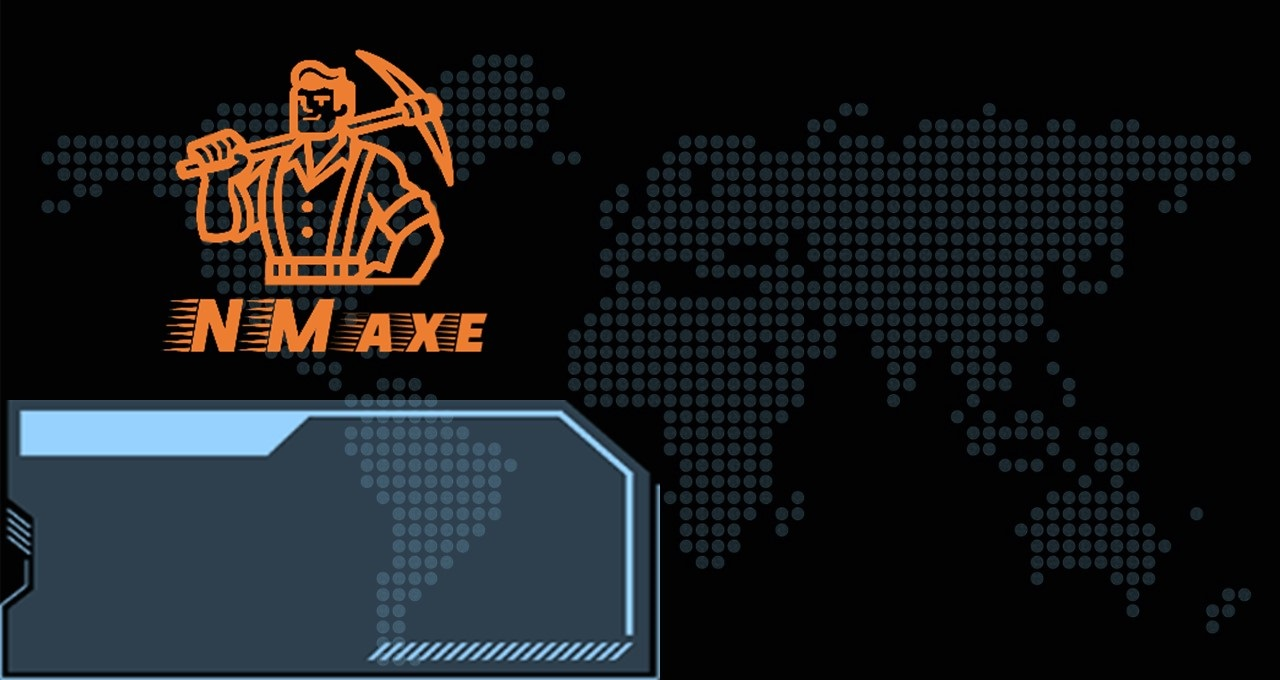
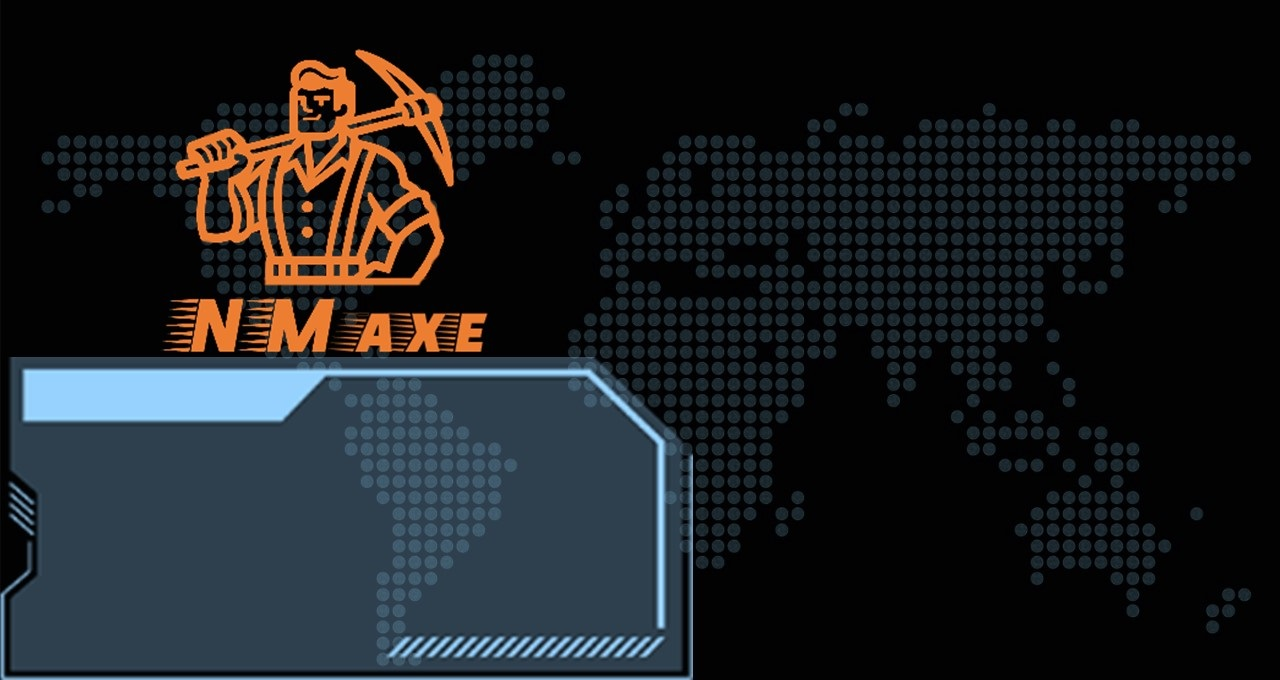
Soft AP name change to 5 chars

Changed region(s): [[0.0, 0.525, 0.5625, 1.0]]

diff --git a/src/nvs/axe_nvs_config.cpp b/src/nvs/axe_nvs_config.cpp
@@ -192,7 +192,7 @@ bool load_g_nmaxe(void){
         g_nmaxe.mstatus.update_xsem                 = xSemaphoreCreateCounting(1, 0);
         g_nmaxe.connection.wifi.softap_param.ip     = IPAddress(192, 168, 4, 1);
         g_nmaxe.connection.wifi.softap_param.pwd    = "12345678";
-        g_nmaxe.connection.wifi.softap_param.ssid   = "NMAxe_" + g_nmaxe.board.devcie_code.substring(0, 4);
+        g_nmaxe.connection.wifi.softap_param.ssid   = "NMAxe_" + g_nmaxe.board.devcie_code.substring(0, 5);
         g_nmaxe.mstatus.block_hits                  = nvs_config_get_u16(NVS_CONFIG_BLOCK_HITS, 0);
     }
     String url = String(nvs_config_get_string(NVS_CONFIG_STRATUM_URL, "stratum+tcp://public-pool.io"));
@@ -204,7 +204,7 @@ bool load_g_nmaxe(void){
     g_nmaxe.connection.stratum.diff             = DEFAULT_POOL_DIFFICULTY;
     g_nmaxe.connection.wifi.conn_param.ssid     = String(nvs_config_get_string(NVS_CONFIG_WIFI_SSID, "TP-LINK_74864531"));
     g_nmaxe.connection.wifi.conn_param.pwd      = String(nvs_config_get_string(NVS_CONFIG_WIFI_PASS, "heltec_test"));
-    g_nmaxe.connection.wifi.conn_param.hostname = String(nvs_config_get_string(NVS_CONFIG_HOSTNAME, ("NMAxe_" + g_nmaxe.board.devcie_code.substring(0, 4)).c_str()));
+    g_nmaxe.connection.wifi.conn_param.hostname = String(nvs_config_get_string(NVS_CONFIG_HOSTNAME, g_nmaxe.connection.wifi.softap_param.ssid.c_str()));
     g_nmaxe.mstatus.best_ever                   = strtoull(nvs_config_get_string(NVS_CONFIG_BEST_EVER, "0"), NULL, 10);
     g_nmaxe.asic.type                           = String(nvs_config_get_string(NVS_CONFIG_ASIC_MODEL, "BM1366"));
     g_nmaxe.asic.frequency_req                  = nvs_config_get_u16(NVS_CONFIG_ASIC_FREQ, 575);

diff --git a/src/drivers/displays/display.cpp b/src/drivers/displays/display.cpp
@@ -545,7 +545,7 @@ void ui_thread_entry(void *args){
       const lv_font_t *font = &lv_font_montserrat_12;
       lv_color_t font_color = lv_color_hex(0xFFFFFF);
       lv_obj_t *lb_cfg = lv_label_create(config_page);
-      String str = "ssid:" + g_nmaxe.connection.wifi.conn_param.hostname + "\r\npwd: " + g_nmaxe.connection.wifi.softap_param.pwd + "\r\nlogin:"+ g_nmaxe.connection.wifi.softap_param.ip.toString();
+      String str = "ssid:" + g_nmaxe.connection.wifi.softap_param.ssid + "\r\npwd: " + g_nmaxe.connection.wifi.softap_param.pwd + "\r\nlogin:"+ g_nmaxe.connection.wifi.softap_param.ip.toString();
 
       lv_obj_set_width(lb_cfg, 120);
       lv_label_set_text(lb_cfg, str.c_str());
@@ -553,11 +553,11 @@ void ui_thread_entry(void *args){
       lv_obj_set_style_text_color(lb_cfg, font_color, LV_PART_MAIN);
       lv_label_set_long_mode(lb_cfg, LV_LABEL_LONG_WRAP);
       lv_obj_set_style_text_line_space(lb_cfg, 0, LV_PART_MAIN); 
-      lv_obj_align(lb_cfg, LV_ALIGN_LEFT_MID, 8, 45);
+      lv_obj_align(lb_cfg, LV_ALIGN_LEFT_MID, 8, 38);
 
       //QR code
       lv_obj_t *qrcode = lv_qrcode_create(config_page, SCREEN_HEIGHT - 30, lv_color_hex(0x000000), lv_color_hex(0xFFFFFF));
-      String qr_str = "WIFI:T:WPA;S:" + g_nmaxe.connection.wifi.conn_param.hostname + ";P:" + g_nmaxe.connection.wifi.softap_param.pwd + ";H:false;";
+      String qr_str = "WIFI:T:WPA;S:" + g_nmaxe.connection.wifi.softap_param.ssid + ";P:" + g_nmaxe.connection.wifi.softap_param.pwd + ";H:false;";
       lv_qrcode_update(qrcode, (uint8_t*)qr_str.c_str(), qr_str.length());
       lv_obj_align(qrcode, LV_ALIGN_RIGHT_MID, 0, 0);
 

diff --git a/src/mining/miner.cpp b/src/mining/miner.cpp
@@ -23,16 +23,11 @@ AsicMinerClass::AsicMinerClass(BMxxx *asic){
     this->_asic = asic;
     this->_pool_job_id_now = "";
     this->_asic_job_map.clear();
-    this->_is_init = false;
     memset(&this->_asic_job_now, 0, sizeof(asic_job));
 }
 
 AsicMinerClass::~AsicMinerClass(){
 
-}
-
-bool AsicMinerClass::is_init(){
-    return this->_is_init;
 }
 
 bool AsicMinerClass::begin(uint16_t freq, uint16_t diff){
@@ -45,7 +40,6 @@ bool AsicMinerClass::begin(uint16_t freq, uint16_t diff){
     }
     LOG_I("======= Found %d BM1366 ASICs =======", asics);
     this->_asic->change_uart_baud(ESP32_TO_BM1366_WORK_BUAD);
-    this->_is_init = true;
     return this->_asic->clear_port_cache();
 }
 
@@ -312,8 +306,7 @@ void miner_asic_rx_thread_entry(void *args){
 
     //wait for miner instance ready
     while (g_nmaxe.miner == NULL)delay(10);
-    while (g_nmaxe.miner->is_init() == false)delay(10);
-    
+
     //wait for first job cache ready forever
     xSemaphoreTake(g_nmaxe.stratum.new_job_xsem, portMAX_DELAY);
 

diff --git a/src/connection/connection.cpp b/src/connection/connection.cpp
@@ -82,7 +82,7 @@ void axe_wifi_connecet(axe_wifi_conn_param_t param){
         if(maxRetries >= 15){
             LOG_I("Set softAP [%s]...", g_nmaxe.connection.wifi.conn_param.hostname.c_str());
             WiFi.mode(WIFI_AP);
-            WiFi.softAP(g_nmaxe.connection.wifi.conn_param.hostname, g_nmaxe.connection.wifi.softap_param.pwd.c_str());
+            WiFi.softAP(g_nmaxe.connection.wifi.softap_param.ssid, g_nmaxe.connection.wifi.softap_param.pwd.c_str());
             WiFi.softAPConfig(g_nmaxe.connection.wifi.softap_param.ip, g_nmaxe.connection.wifi.softap_param.ip, IPAddress(255, 255, 255, 0));
             delay(1000);
             xSemaphoreGive(g_nmaxe.connection.wifi.force_cfg_xsem);

diff --git a/src/mining/miner.h b/src/mining/miner.h
@@ -12,12 +12,10 @@ private:
     String                      _pool_job_id_now;
     std::map<uint8_t, asic_job> _asic_job_map;
     std::map<uint8_t, String>   _extranonce2_map;
-    bool                        _is_init;
 public:
     AsicMinerClass(BMxxx *asic);
     ~AsicMinerClass();
     bool begin(uint16_t freq, uint16_t diff);
-    bool is_init();
     bool mining(pool_job_data_t *pool_job);
     bool set_asic_diff(uint64_t diff);
     double get_asic_diff();

diff --git a/src/global.h b/src/global.h
@@ -8,7 +8,7 @@
 #include "stratum.h"
 #include "miner.h"
 
-#define CURRENT_FW_VERSION  "v2.1.131"
+#define CURRENT_FW_VERSION  "v2.1.14"
 #define CURRENT_HW_VERSION  "v1.1.1"
 
 
